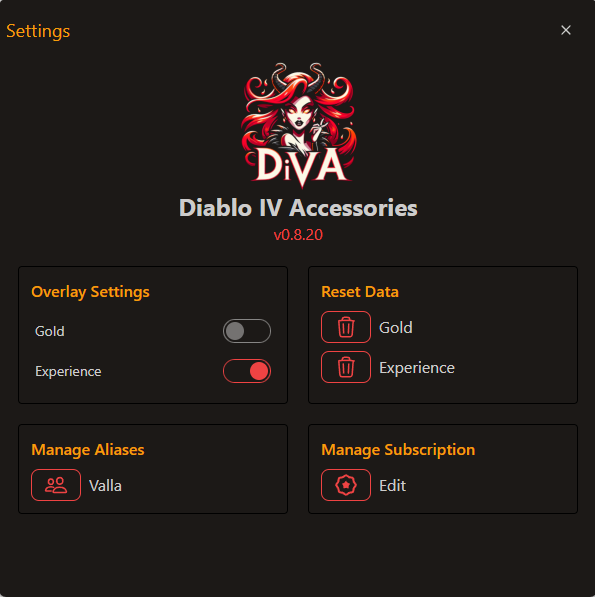
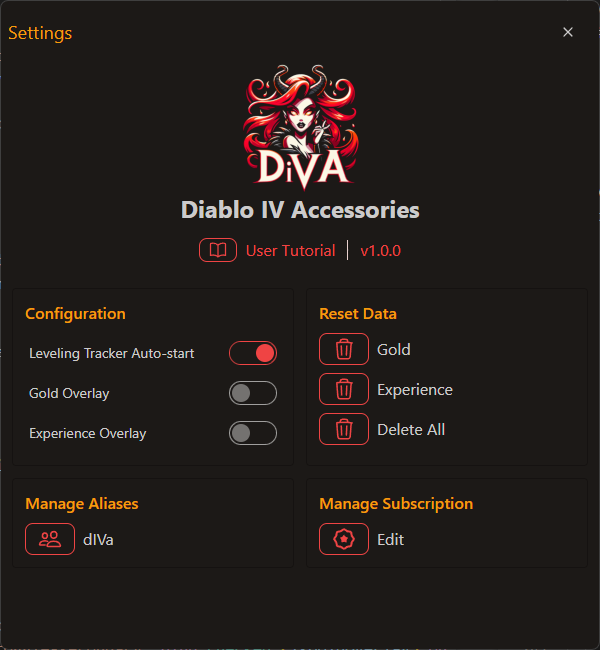
dIVa Guide Update for Release

diff --git a/dIVa/index.html b/dIVa/index.html
@@ -40,12 +40,13 @@
           <h2 class="card-title text-accent text-2xl">Desktop</h2>
           <p class="mb-4">Screenshot of the Desktop window.</p>
           <img src="images/desktop.png" alt="Desktop window" class="mb-4 mx-auto rounded-lg" />
+          <img src="images/desktop-full.png" alt="Full Desktop" class="mb-4 mx-auto rounded-lg" />
           <div class="mt-4">
             <h3 class="text-secondary text-xl font-semibold">Functionality</h3>
             <ul class="list-disc list-inside ml-4 p-4">
-              <li><strong>Gold Meter:</strong> This meter can run either in-game or as a separate desktop window.</li>
+              <li><strong>Gold Meter:</strong> This meter can run either in-game or as part of the desktop window.</li>
               <li>
-                <strong>Experience Meter:</strong> Similar to the Gold Meter, this meter can run either in-game or as a separate desktop window.
+                <strong>Experience Meter:</strong> Similar to the Gold Meter, this meter can run either in-game or as part of the desktop window.
               </li>
               <li>
                 <strong>Speed Leveling Tracker:</strong> Monitors the speed at which your character levels up. Displays time for every Milestone!
@@ -66,8 +67,8 @@
           <h2 class="card-title text-accent text-2xl">Meters</h2>
           <p class="mb-4">Screenshots of the Gold and Experience Meters</p>
           <div class="flex">
-            <img src="images/gold.jpg" alt="Gold Meter" class="mb-4 mx-auto rounded-lg" />
-            <img src="images/exp.jpg" alt="Experience Meter" class="mb-4 mx-auto rounded-lg" />
+            <img src="images/gold.png" alt="Gold Meter" class="mb-4 mx-auto rounded-lg" />
+            <img src="images/exp.png" alt="Experience Meter" class="mb-4 mx-auto rounded-lg" />
           </div>
           <div class="flex">
             <img src="images/meter-overlays.png" alt="Meter Overlays" class="mb-4 mx-auto rounded-lg" />
@@ -116,29 +117,34 @@
             <h3 class="text-secondary text-xl font-semibold">Functionality</h3>
             <ul class="list-disc list-inside ml-4 p-4">
               <li>
-                <strong>Overlay Settings:</strong> Toggle overlay settings for Gold and Experience.
+                <strong>Configuration:</strong> Adjust application settings.
                 <ul class="list-disc list-inside ml-4">
-                  <li><strong>Gold:</strong> Enable Gold Meter as an in-game Overlay</li>
-                  <li><strong>Experience:</strong> Enable Experience Meter as an in-game Overlay</li>
+                  <li><strong>Leveling Tracker Auto-start:</strong> Automatically starts the Speed Leveling Tracker when a character logs in.</li>
+                  <li><strong>Gold Overlay:</strong> Enables the Gold Meter as an in-game overlay.</li>
+                  <li><strong>Experience Overlay:</strong> Enables the Experience Meter as an in-game overlay.</li>
                 </ul>
               </li>
               <li>
-                <strong>Reset Data:</strong> Reset accumulated data for Gold and Experience.
+                <strong>Reset Data:</strong> Clear accumulated data in the application.
                 <ul class="list-disc list-inside ml-4">
-                  <li><strong>Gold:</strong> Reset all gold-related data.</li>
-                  <li><strong>Experience:</strong> Reset all experience-related data.</li>
+                  <li><strong>Gold:</strong> Resets all gold-related data.</li>
+                  <li><strong>Experience:</strong> Resets all experience-related data.</li>
+                  <li>
+                    <strong>Delete All:</strong> Deletes all data associated with the application, including settings, resource data per character,
+                    leveling data per character, and all characters and aliases.
+                  </li>
                 </ul>
               </li>
               <li>
-                <strong>Manage Aliases:</strong> Manage your Character's aliases.
+                <strong>Manage Aliases:</strong> Organize your character's aliases.
                 <ul class="list-disc list-inside ml-4">
                   <li><strong>Alias:</strong> User-assigned Alias to help distinguish between Character's of the same attributes</li>
                 </ul>
               </li>
               <li>
-                <strong>Manage Subscription:</strong> Edit subscription details.
+                <strong>Manage Subscription:</strong> Update subscription details.
                 <ul class="list-disc list-inside ml-4">
-                  <li><strong>Edit:</strong> Update subscription settings and details.</li>
+                  <li><strong>Edit:</strong> Modify subscription settings and details.</li>
                 </ul>
               </li>
             </ul>

diff --git a/README.md b/README.md
@@ -1,4 +1,4 @@
 # Tutorials for MYLA Products
 
-- [dIVa Tutorial](dIVa/index.html)
-- [dIVa - Diablo II: Resurrected Tutorial](dIVa-d2r/index.html)
+- [dIVa Tutorial](https://myla-llc.github.io/tutorials/dIVa/index.html)
+- [dIVa - Diablo II: Resurrected Tutorial](https://myla-llc.github.io/tutorials/dIVa-d2r/index.html)
